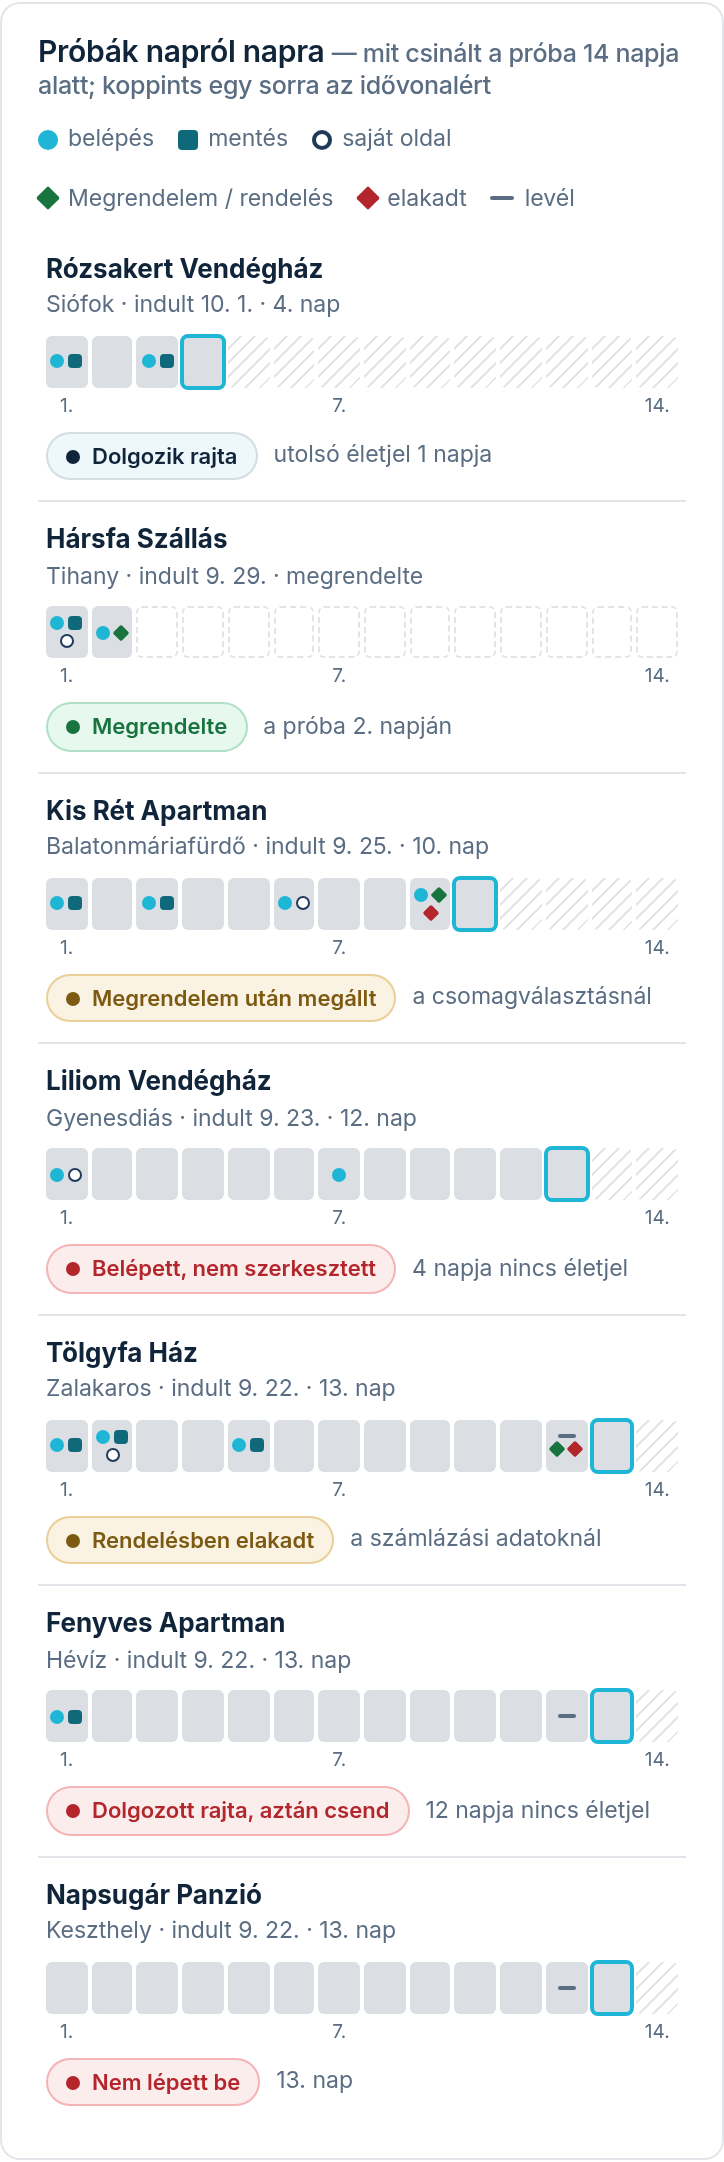
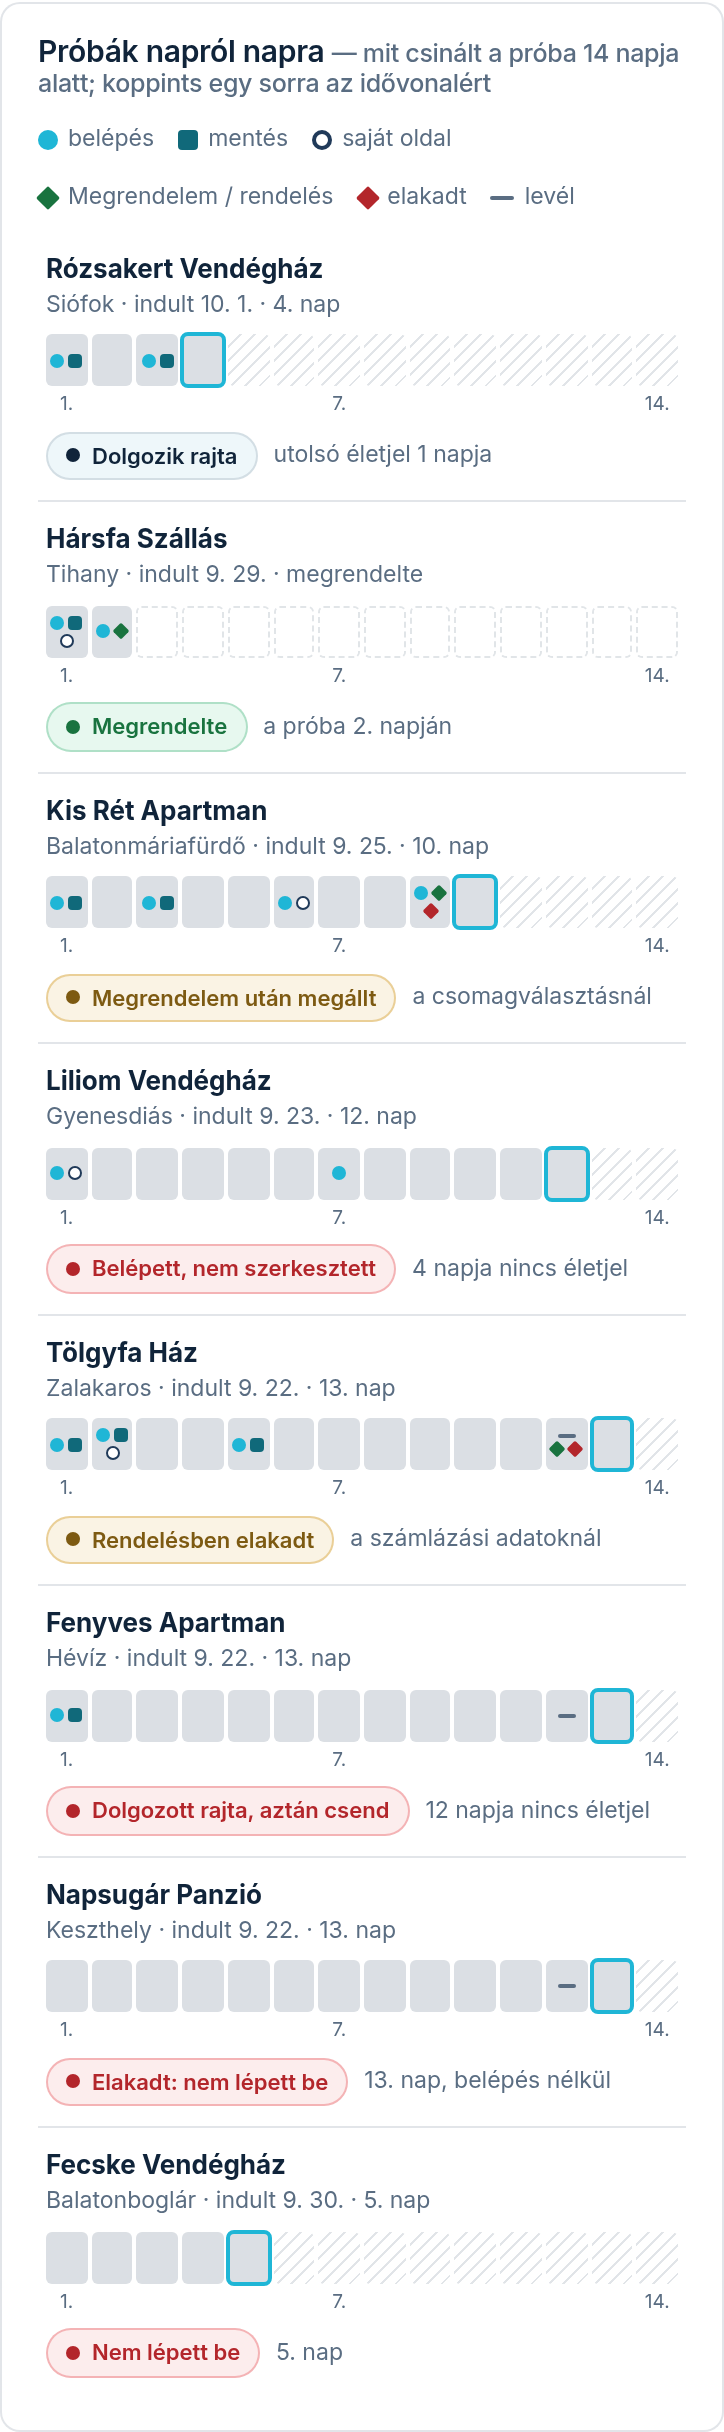
docs(kb): próbázó-eszkaláció a súgóban — piros jelzés, lépcső, „Hol szakad meg a próba?”, Irányítópult-sor (ADR-0425)
A tudasbazis-or FLAG-je után (koordinátor cit4e3e736e): report-trial (új panel, két „elakadt”
szétválasztva, „A belseje nem mért”, új breaks.png, frissített képek), lead / leads / free-trial
(piros jelvény, napcsík + lépéslista, eszkaláció lépései, „ne keressük” pontosan), dashboard
(„próbázó nem lépett be” sor). Riport alfelirat: „{n}. nap, belépés nélkül”. Verdikt: PASS.

Claude-Session: https://claude.ai/code/session_0148jUprCA6hEjxT1Pp9wQ8R

Changed region(s): [[0.0, 0.0, 1.0, 1.0], [0.8204, 0.0, 0.942, 0.031], [0.7293, 0.062, 0.7901, 0.093]]

diff --git a/src/console/trialReportViews.ts b/src/console/trialReportViews.ts
@@ -160,7 +160,7 @@ function verdictOf(v: TrialVerdict, lang: string, measured = true): { pill: stri
     case "no_login":
       return { pill: T(lang, "Nem lépett be"), cls: "rp-pill--bad", sub: T(lang, "{n}. nap", { n: v.day }) };
     case "stalled":
-      return { pill: T(lang, "Elakadt: nem lépett be"), cls: "rp-pill--bad", sub: T(lang, "{n}. nap, 10 nap belépés nélkül", { n: v.day }) };
+      return { pill: T(lang, "Elakadt: nem lépett be"), cls: "rp-pill--bad", sub: T(lang, "{n}. nap, belépés nélkül", { n: v.day }) };
     case "quiet":
       return {
         pill: v.saved ? T(lang, "Dolgozott rajta, aztán csend") : T(lang, "Belépett, nem szerkesztett"),

diff --git a/kb/entries/console-report-trial/entry.hu.md b/kb/entries/console-report-trial/entry.hu.md
@@ -4,7 +4,7 @@ title: Riport — Próba: mit csinálnak a próba alatt
 audience: operator
 category: measure
 anchors: console.report_trial
-updated: 2026-10-26
+updated: 2026-11-05
 ---
 
 A Próba fül arra felel, hol bukik el, vagy hol sikerül egy rendelés a 14 napos ingyenes próba
@@ -35,15 +35,29 @@ megkeresésből indult próba számít, a teszt nem.
 - **„Mennyi idő alatt”** tábla: indulás → 1. belépés, → 1. mentés, → Megrendelem, és Megrendelem →
   fizetés — medián és a leglassabb.
 
+![Képernyőkép: a „Hol szakad meg a próba?” panel — kategóriánként egy sáv a darabszámmal](assets/hu/breaks.png)
+
+- **„Hol szakad meg a próba?”** (2026-11-05 óta): minden próba EGY sávban számít, ott, ahol most tart —
+  ugyanaz a mondat, ami a lenti lista sora mellett áll. A sávok sorrendben: **„Nem lépett be (még fut)”**,
+  **„Elakadt: 10 nap belépés nélkül”**, **„Belépett, nem szerkesztett”**, **„Dolgozott rajta, aztán
+  csend”**, **„Rendelésben elakadt”**, **„Rendelés folyamatban”**, **„Dolgozik rajta”**, **„Megrendelte”**,
+  **„Lejárt, nem rendelt”**, **„A belseje nem mért”**. A két belépés nélküli sáv mindig látszik (0-val
+  is), a többi csak akkor, ha van benne próba. **Egy sávra koppintva** a lenti lista csak azokat
+  mutatja; a lista címe mellett megjelenik a „<kategória> ×” címke, arra vagy újra a sávra koppintva a
+  szűrés megszűnik. Ha a kategória üres, a lista ezt írja: „Ebben a kategóriában most nincs próba.”
+  **Mit tegyél:** ha a „Nem lépett be” vagy az „Elakadt” sáv nő, a próba a belépésnél szakad meg — a
+  rendszer addig magától próbálkozik (lásd az Ingyenes próba súgójának „Ha a próbázó nem lép be” részét).
+
 ![Képernyőkép: a „Próbák napról napra” lista — név, a 14 nap sávja, állapot](assets/hu/trial-list.png)
 
 - **„Próbák napról napra”**: próbánként egy sor. A 14 napos sávon a jelek: kör = belépés,
   négyzet = mentés, üres kör = megnézte a saját oldalát, zöld rombusz = Megrendelem / rendelés,
   piros rombusz = elakadt, vonal = lejárat előtti levél. A mai nap keretes, a még hátralévő napok
-  csíkosak. Jobbra egy mondat: **„Dolgozik rajta”**, **„Nem lépett be”**, **„Belépett, nem
+  csíkosak. Jobbra egy mondat: **„Dolgozik rajta”**, **„Nem lépett be”** (még nem telt el 10 nap),
+  **„Elakadt: nem lépett be”** (a 10. naptól, belépés nélkül), **„Belépett, nem
   szerkesztett”**, **„Dolgozott rajta, aztán csend”** (3 napja nincs belépés vagy mentés),
   **„Megrendelem után megállt”**, **„Rendelésben elakadt”**, **„Megrendelte”**, **„Lejárt, nem
-  rendelt”**. **Egy sorra koppintva** kinyílik a próba idővonala percre pontosan (a hosszabb
+  rendelt”**, **„A belseje nem mért”** (a mérés bekapcsolása előtt indult). **Egy sorra koppintva** kinyílik a próba idővonala percre pontosan (a hosszabb
   csendeket is kiírja), alatta a **„Lead-lap”** gomb.
 - **„A próba melyik napján dolgoznak?”**: naponként hány próbázó lépett be vagy mentett.
 - **„Mock: ugyanaz tér vissza, vagy továbbküldték?”**: a kiküldött linkek látogatói — egyszer
@@ -61,8 +75,12 @@ megkeresésből indult próba számít, a teszt nem.
   5 másodperc látható fül) — a levél-szkennerek megnyitása nem számít. Az idővonal azt is
   kiírja, honnan jött: az adminból vagy a próba levelétől. Az SMS-ben küldött linknél a forrás
   nem látszik.
-- **Elakadt** = megnyitotta a rendelést, de egy órán belül nem küldte el; a mondat az utolsó
+- **Elakadt a rendelésben** (a sávon piros rombusz, a mondat „Megrendelem után megállt” vagy
+  „Rendelésben elakadt”) = megnyitotta a rendelést, de egy órán belül nem küldte el; a mondat az utolsó
   lépést nevezi meg (csomagválasztás vagy számlázási adatok).
+- **Elakadt: nem lépett be** = ez MÁS: a próba 10. napja eltelt, és a próbázó egyszer sem lépett be
+  (jelszót sem állított be). A két „elakadt” nem ugyanaz: az egyik a rendelésben állt meg, a másik el
+  sem kezdte.
 - **Elküldve, fizetve, lejárt, levél** — a rendelés, a fizetés és a próba saját adataiból.
 - A mérés bekapcsolása előtt indult próbánál a belső lépések nem látszanak: a sor ezt ki is írja
   („A belseje nem mért”), és a lépcső nélkülük számol.

diff --git a/kb/entries/console-lead/entry.hu.md b/kb/entries/console-lead/entry.hu.md
@@ -4,7 +4,7 @@ title: Lead-lap — a munkafolyamat: adat, mock, kuráció, megkeresés, konverz
 audience: operator
 category: lead-path
 anchors: console.lead
-updated: 2026-10-14
+updated: 2026-11-05
 ---
 
 A lead-lap a napi munka szíve: itt fut végig egy szereplő a teljes láncon —
@@ -56,6 +56,22 @@ Egy saját oldal előfizetés és foglalás nélkül nem kap kártyát.
   - vagy „A próba lejárt N napja”.
 
   Próbánál egy csík mutatja, hányadik napnál tart.
+
+  **Ha a próbázó a 4. naptól sem lépett be**, a kártya feje piros: **„Nem lépett be — {n}. nap”**, alatta
+  „Próbázik, még N nap · <dátum>-ig · jelszót nem állított be”. Ilyenkor a kártyán „A próba 14 napja — mit küldtünk, mi jön”
+  rész (a próba hosszával) is van:
+  - egy napcsík: minden nap egy cella, a mai keretes, a hátralévők csíkosak; a pontok színe a lépés
+    fajtája (levél / SMS, riasztás, MMS, személyes levél, elakadt, lejárat előtti levél — a jelmagyarázat
+    alatta);
+  - alatta lépésenként: hányadik nap, mi (belépő levél, emlékeztető e-mail + SMS, piros jelzés, MMS az
+    élő oldal képével + kísérő SMS, személyes levél a segítő nevével, „Elakadt”, lejárat előtti levelek),
+    mikor, és az állapota: **„kiment”**, **„most”** (sárga sor, épp megy vagy sorban áll), **„jön”**
+    (dátummal), **„kimaradt”** (okkal), **„hiba”** (okkal), a jelzéseknél **„jelezve”**. A hétvége miatt
+    kimaradt emlékeztető nem külön sor: a kiment emlékeztető mellett áll („a 2., 4., 6. napi kimaradt”).
+
+  **Mit tegyél:** semmit — a lépések maguktól mennek. Ha egy sor „hiba”, az oka mellette áll (pl. az
+  élő oldal képe nem készült el); ha ugyanaz tartósan ismétlődik, szólj a fejlesztőnek. Részletek: az
+  Ingyenes próba súgójának „Ha a próbázó nem lép be” része.
 - Az **„Élő oldal”** gomb új lapon nyitja a szállás élő oldalát (lejárt próbánál nincs, mert az
   oldal szünetel).
 - Próbánál a kártya ezeket írja ki:

diff --git a/kb/entries/console-dashboard/entry.hu.md b/kb/entries/console-dashboard/entry.hu.md
@@ -4,7 +4,7 @@ title: Irányítópult — a konzol kezdőlapja és a bal oldali menü
 audience: operator
 category: system
 anchors: console.dashboard
-updated: 2026-11-04
+updated: 2026-11-05
 ---
 
 Az **„Irányítópult”** a konzol kezdőlapja. Bal oldalt az oldalsáv a teljes szerkezetet mutatja
@@ -154,6 +154,12 @@ megfelelő képernyőre visz, a sor jobb szélén a képernyő neve:
   adómentesség 18 M Ft-os keretéhez mérve; amíg 80% alatt van, a sor nem jelenik meg — ha
   felbukkan, a rendszer SMS-t/e-mailt is küldött róla (címzettek: Beállítások →
   „Riasztások — keret-kihasználtság”);
+- **„próbázó nem lépett be”** (piros) — hány futó próbázó nem lépett be (jelszót sem állított be) a
+  próba 4. napjától, a nevükkel és a próba napjával; ha közülük valaki már 10 napja nem lépett be,
+  mellette „ebből N elakadt (10 nap belépés nélkül)”. Egy próbázónál a sorra koppintva a lead-lapja
+  nyílik, többnél a lead-lista **„Próbázik”** szűrője. **Teendőd nincs:** a rendszer magától küldi az
+  emlékeztetőket, az MMS-t és a személyes levelet — a lead-lapon látod, mi ment ki (részletek az
+  Ingyenes próba súgójának „Ha a próbázó nem lép be” részében). A sor eltűnik, amint a próbázó belép.
 - **„megválaszolatlan válasz a megkeresésekre”** (piros) — hány lead válaszára nem reagáltunk
   még; a fenti blokkra ugrik;
 - **„lejárt számla”** (piros) és **„nyitott bizonylat”** (borostyán) — a nyitott tételekre visz;

diff --git a/kb/entries/console-leads/entry.hu.md b/kb/entries/console-leads/entry.hu.md
@@ -4,7 +4,7 @@ title: Lead-lista — szűrés, rendezés, számok, diszkvalifikáltak
 audience: operator
 category: lead-path
 anchors: console.leads
-updated: 2026-10-14
+updated: 2026-11-05
 ---
 
 A lead-lista két nézetből áll: az **„Aktív leadek”** a munka-lista, a
@@ -182,7 +182,9 @@ is csak „jóváhagyva” állt).
 
 - **A név alatt jelvény** áll:
   - próbánál „próbázik · még N nap”, az utolsó két napon „próbázik · holnap lejár” / „próbázik · ma lejár”.
-    Ha legfeljebb 3 nap van hátra, a jelvény sárga;
+    Ha legfeljebb 3 nap van hátra, a jelvény sárga. Ha a próbázó a 4. naptól még nem lépett be, előtte
+    piros jelvény áll: **„nem lépett be · {n}. nap”** (eltűnik, amint belép — a lead-lapon látod, mit
+    küldtünk neki);
   - **„előfizető”**: fizető ügyfél, akkor is, ha a díjjal késésben van;
   - **„próba lejárt”**: a próba folytatás nélkül véget ért.
 - Ha az élő oldalra foglalás érkezett, mellette „N foglalás” áll (az összes kérés száma). Ha a tulaj egy

diff --git a/_planning/memory/2026-11-05_probazo_eszkalacio.md b/_planning/memory/2026-11-05_probazo_eszkalacio.md
@@ -12,6 +12,8 @@
 - Az első hétköznapi tick-ben Sáma: e4 + s10 jel, MMS + kísérő SMS, személyes levél; Marilyn: e4 jel, 5. napján MMS, 7. napja vasárnap → hétfőn levél.
 
 ## Nyitott
+- „Ne keressük” jelű próbázó: az eszkaláció (MMS, levél) kimarad, de az ADR-0417 emlékeztetői (l2–l8) és a T−3/T−1 levél NEM nézik a `contact_block_at`-et — a „semmilyen üzenet” doktrínával ütközik; javítandó (súgó-őr lelete 11-05).
+- Súgó pótolva 11-05 (tudasbazis-or PASS): console-report-trial (+breaks.png), console-lead, console-leads, console-free-trial, console-dashboard.
 - Koordinátor-jegy a 4. napi jelzéshez (VPS → dev gép híd) — külön lépés.
 - SMS-kézbesítés nem mérhető (ADR-0417 nyitott pontja).
 
